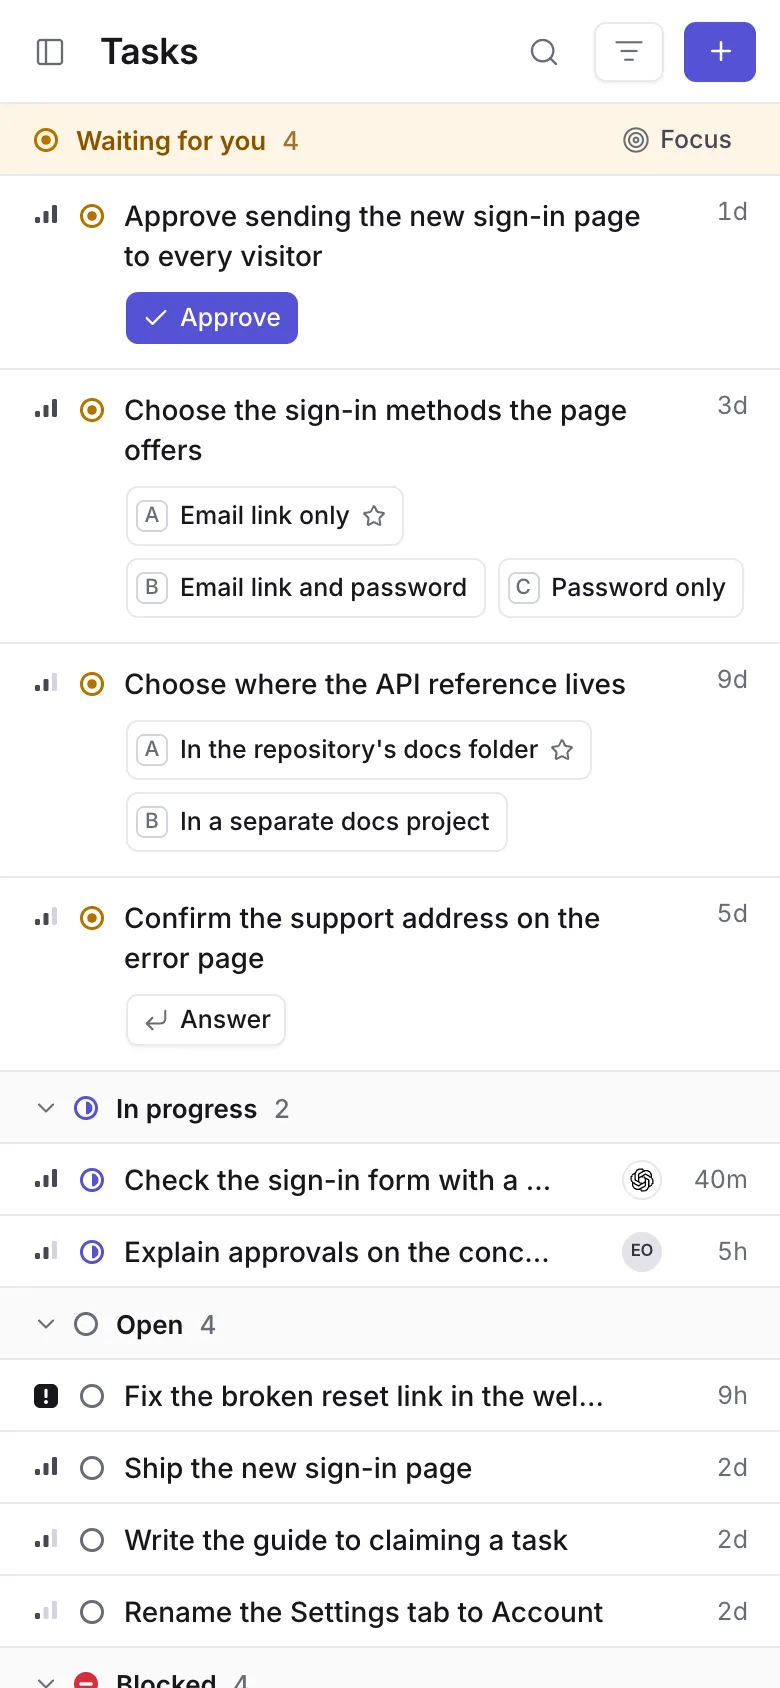
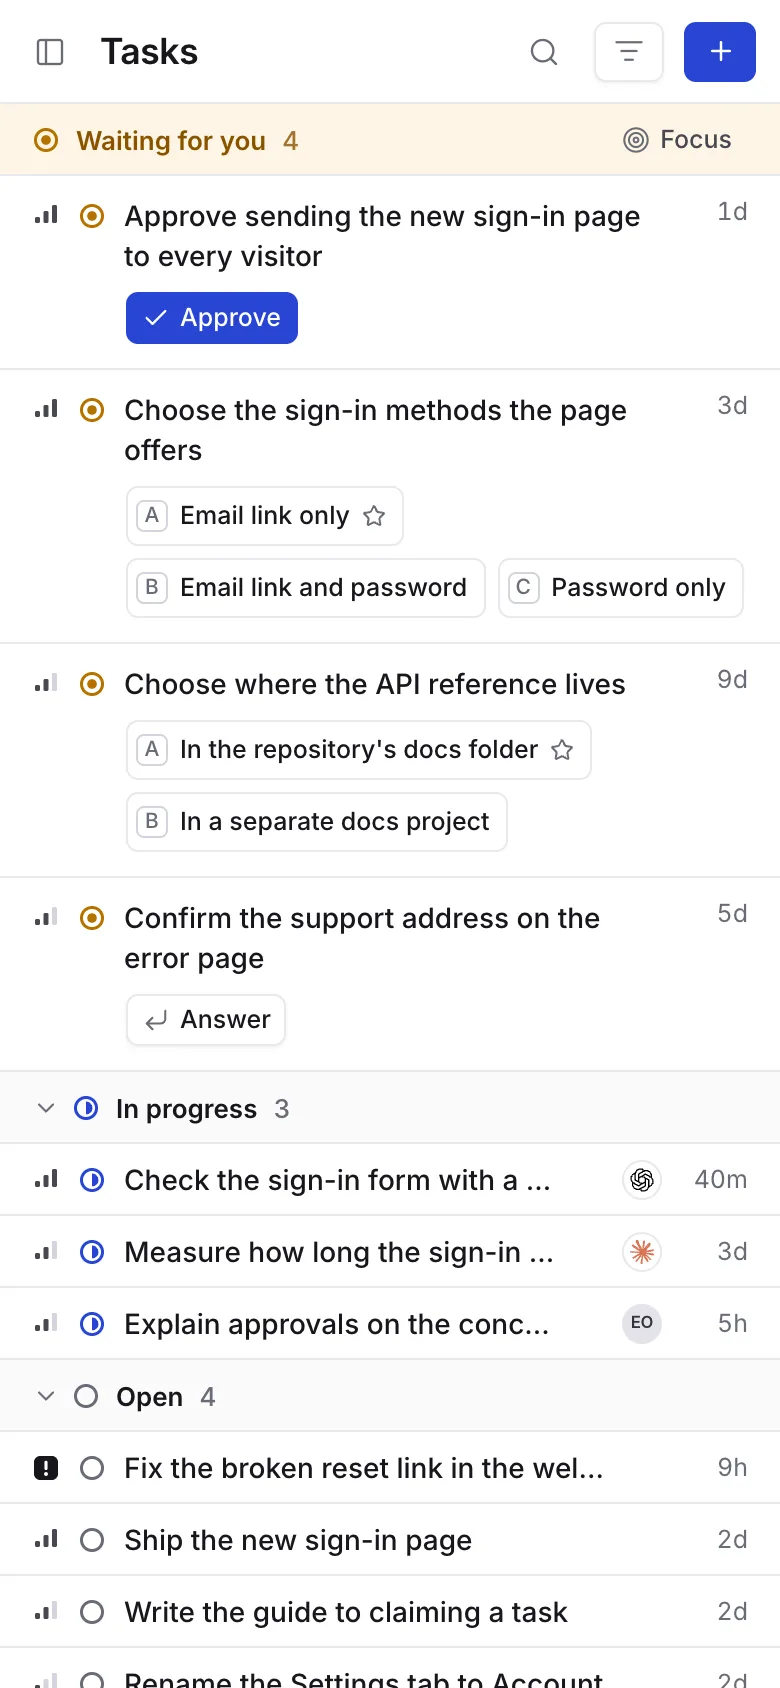
feat(ui): make the accent the Notice blue in place of indigo
Precise's accent family takes the blue that notice.cx, the Ntasks site and
the NoticeOS Tower use: light #2745D4 for the fill and links on #EEF0FF;
dark #3D5BE6 under white text, links in notice.cx's #B0B9FF, on #1C2347.
The Worker's sign-in pages carry the same copy, the gallery and the design
doc name the new colour, and a test keeps text on Accent and Accent text on
Background at 4.5:1 or more in both themes. Every screenshot and
walkthrough in docs/images is drawn again.

Refs: ro-t66y.43.7

diff --git a/packages/ui/test/design.test.tsx b/packages/ui/test/design.test.tsx
@@ -73,6 +73,21 @@ describe('the tokens', () => {
     }
   });
 
+  it('draws text on Accent, and Accent text on Background, at 4.5:1 or more, in both themes', () => {
+    for (const [theme, css] of [
+      ['light', rule(':root,\n.light')],
+      ['dark', rule('.dark')],
+    ] as const) {
+      for (const [ink, fill] of [
+        ['on-accent', 'accent'],
+        ['accent-text', 'background'],
+      ] as const) {
+        const [one, two] = [value(css, ink) ?? '', value(css, fill) ?? ''];
+        expect(contrast(one, two), `${ink} on ${fill} in ${theme}: ${one} on ${two}`).toBeGreaterThanOrEqual(4.5);
+      }
+    }
+  });
+
   it('gives every listed colour a Tailwind name', () => {
     for (const { variable } of [...COLOUR_TOKENS, ...MARK_TOKENS]) {
       expect(CSS).toContain(`--color-${variable.slice(2)}: var(${variable});`);

diff --git a/packages/ui/src/index.css b/packages/ui/src/index.css
@@ -39,10 +39,10 @@
   --ink: #17171c;
   --ink-2: #474852;
   --ink-3: #696b76;
-  --accent: #5552d4;
+  --accent: #2745d4;
   --on-accent: #ffffff;
-  --accent-text: #4b48c9;
-  --accent-soft: #efeffc;
+  --accent-text: #2745d4;
+  --accent-soft: #eef0ff;
   --wait: #b57100;
   --wait-text: #8a5300;
   --wait-soft: #fdf5e6;
@@ -80,10 +80,10 @@
   --ink: #ededf1;
   --ink-2: #b3b5bf;
   --ink-3: #8a8d98;
-  --accent: #5e5ce6;
+  --accent: #3d5be6;
   --on-accent: #ffffff;
-  --accent-text: #9d9bff;
-  --accent-soft: #1f1f3a;
+  --accent-text: #b0b9ff;
+  --accent-soft: #1c2347;
   --wait: #f0b13c;
   --wait-text: #f3c062;
   --wait-soft: #221c10;

diff --git a/packages/ui/src/routes/DesignRoute.tsx b/packages/ui/src/routes/DesignRoute.tsx
@@ -513,7 +513,7 @@ function Header({ theme, onTheme }: { theme: Theme; onTheme: (theme: Theme) => v
         {(
           [
             ['Typeface', 'Inter, JetBrains Mono for code'],
-            ['Accent', 'Indigo #5552D4'],
+            ['Accent', 'Notice blue #2745D4'],
             ['Icons', 'Lucide, 16 px, 1.75 stroke'],
             ['Density', '14 px text, 36 px rows'],
             [

diff --git a/workers/api/src/access/page-look.ts b/workers/api/src/access/page-look.ts
@@ -15,7 +15,7 @@ export const PAGE_COLOURS = {
   ink: ['#17171c', '#ededf1'],
   'ink-2': ['#474852', '#b3b5bf'],
   'ink-3': ['#696b76', '#8a8d98'],
-  accent: ['#5552d4', '#5e5ce6'],
+  accent: ['#2745d4', '#3d5be6'],
   'on-accent': ['#ffffff', '#ffffff'],
 } as const satisfies Record<string, readonly [string, string]>;
 

diff --git a/docs/design.md b/docs/design.md
@@ -27,8 +27,9 @@ prefers. `pnpm screenshots design` captures it in both themes
 - Body text is 14 px. A list row is one line, 36 px tall.
 - Greys order the text: Text for titles and values, Text 2 for body and
   labels, Text 3 for ids, ages and other facts.
-- Accent, an indigo, marks the one primary action in a view, the focused
-  control, the selected item and work in progress. Nothing else is indigo.
+- Accent, the Notice blue that [notice.cx](https://www.notice.cx) uses,
+  marks the one primary action in a view, the focused control, the selected
+  item and work in progress. Nothing else is that blue.
 - Amber means only Waiting for you. Red means only Blocked. Green means only
   Done. No other state, warning or error uses these colours.
 - Every action has a key, and the control shows it in a `Kbd`.
@@ -60,10 +61,10 @@ a hex value.
 | Text | `--ink` | `#17171C` | `#EDEDF1` | Titles, values |
 | Text 2 | `--ink-2` | `#474852` | `#B3B5BF` | Body, labels |
 | Text 3 | `--ink-3` | `#696B76` | `#8A8D98` | Ids, ages, counts, placeholders, icons in controls |
-| Accent | `--accent` | `#5552D4` | `#5E5CE6` | Primary buttons, focus, in progress |
+| Accent | `--accent` | `#2745D4` | `#3D5BE6` | Primary buttons, focus, in progress |
 | On accent | `--on-accent` | `#FFFFFF` | `#FFFFFF` | Text and icons on Accent |
-| Accent text | `--accent-text` | `#4B48C9` | `#9D9BFF` | Links, task ids in text, code keywords |
-| Accent soft | `--accent-soft` | `#EFEFFC` | `#1F1F3A` | The selected option, the focus halo of a field |
+| Accent text | `--accent-text` | `#2745D4` | `#B0B9FF` | Links, task ids in text, code keywords |
+| Accent soft | `--accent-soft` | `#EEF0FF` | `#1C2347` | The selected option, the focus halo of a field |
 | Waiting for you | `--wait` | `#B57100` | `#F0B13C` | The Waiting for you mark |
 | Waiting text | `--wait-text` | `#8A5300` | `#F3C062` | Amber words: the Waiting for you heading and count |
 | Waiting soft | `--wait-soft` | `#FDF5E6` | `#221C10` | The Waiting for you group's background |
@@ -231,7 +232,7 @@ for a task, testing these in order:
 | Dashed grey circle | Parked | it is set aside until a date (stored status `deferred`) |
 | Amber ring with a dot | Waiting for you | a person must answer it: an approval or a request to do steps, or a ready task labelled `human` that nobody has answered (see [decisions, approvals and steps to do](concepts.md#decisions-approvals-and-steps-to-do)) |
 | Red disc with a bar | Blocked | its stored status is `blocked`, or it is open and depends on a task that is not closed |
-| Indigo ring, half filled | In progress | someone has claimed it |
+| Blue ring, half filled | In progress | someone has claimed it |
 | Grey ring | Open | none of the above, including a status the app does not know |
 
 A list groups its rows in the order Waiting for you, In progress, Open,
@@ -245,8 +246,8 @@ task's last activity, when its holder last changed or commented on it:
 
 | Mark | Name | A task in progress shows it when |
 |---|---|---|
-| Indigo disc in a faint indigo ring | Active | its holder wrote to it within the last hour |
-| Indigo ring, half filled (the In progress mark) | Quiet | its holder last wrote to it an hour ago or more, and less than the Stalled after time |
+| Blue disc in a faint blue ring | Active | its holder wrote to it within the last hour |
+| Blue ring, half filled (the In progress mark) | Quiet | its holder last wrote to it an hour ago or more, and less than the Stalled after time |
 | Grey ring, half filled | Stalled | its holder has not written to it for the Stalled after time or more, or nothing is recorded |
 
 The marks differ in fill and lightness as well as colour, so they read apart
